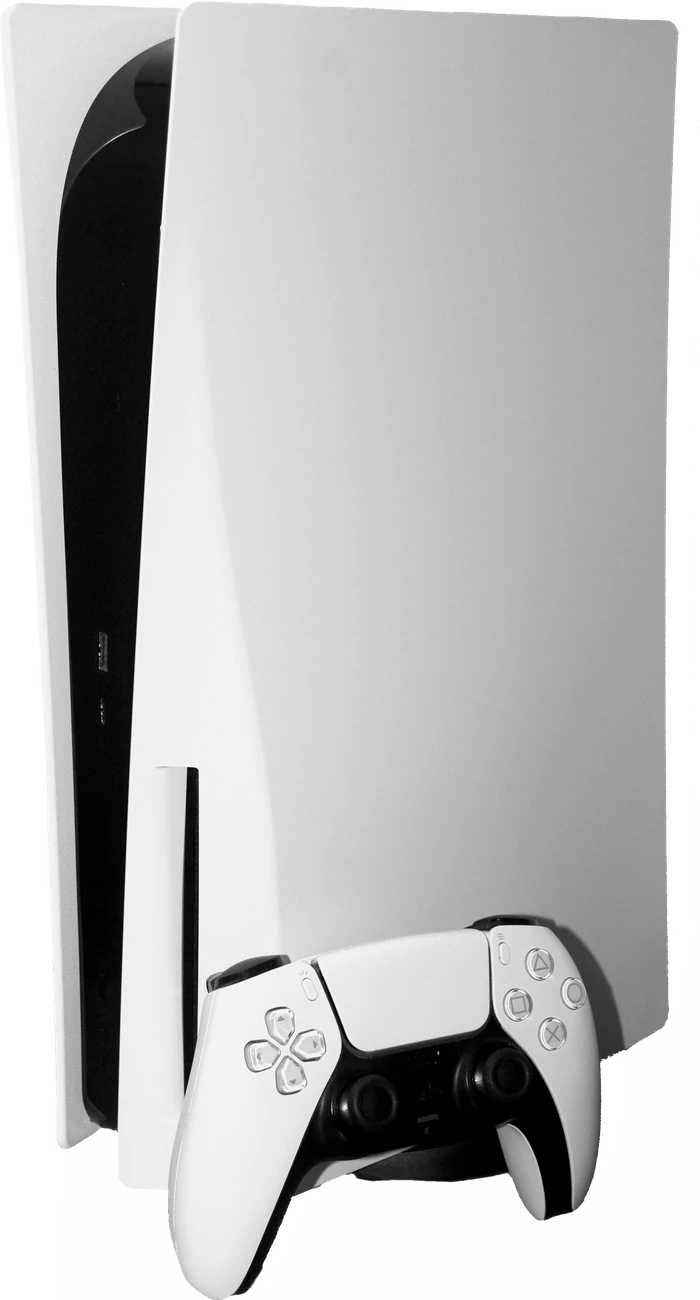
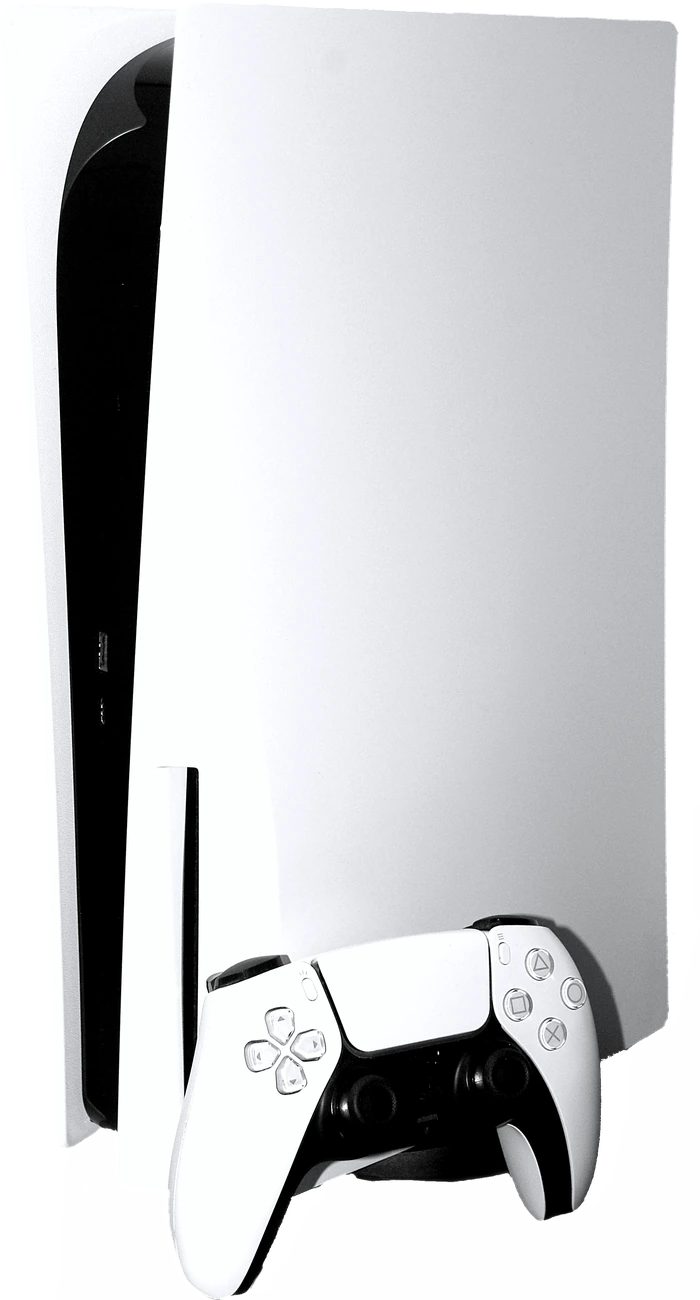
Give the third hero slide its own composition and lift the console photo
The bundle slide reused the console shot, so three arrows only produced two pictures. It now floats the included game card beside the hardware. The console photograph itself was a flat grey scan, so stretch its levels to bring the plastic back to near-white, deepen the gloss panel, sharpen the edges and cool the balance.

diff --git a/redesigns/playstation/index.html b/redesigns/playstation/index.html
@@ -23,7 +23,7 @@
   <link rel="preconnect" href="https://fonts.googleapis.com">
   <link rel="preconnect" href="https://fonts.gstatic.com" crossorigin>
   <link href="https://fonts.googleapis.com/css2?family=Poppins:wght@400;500;600;700&family=Inter:wght@400;500;600&display=swap" rel="stylesheet">
-  <link rel="stylesheet" href="styles.css?v=20260813-ps2">
+  <link rel="stylesheet" href="styles.css?v=20260813-ps3">
   <script type="application/ld+json">
     {
       "@context": "https://schema.org",
@@ -110,6 +110,10 @@
         <div class="hero-shadow" aria-hidden="true"></div>
         <img class="hero-group" id="heroGroup" src="assets/ps5-group.webp" width="700" height="1300" alt="PlayStation 5 console with a DualSense wireless controller." fetchpriority="high" decoding="async">
         <img class="hero-pad" id="heroPad" src="assets/dualsense.webp" width="760" height="627" alt="DualSense wireless controller." loading="lazy" decoding="async">
+        <figure class="hero-bundle" id="heroBundle" aria-hidden="true">
+          <img src="assets/tile-asterfall.webp" width="640" height="360" alt="" loading="lazy" decoding="async">
+          <figcaption><strong>Aster Fall</strong><span>Included</span></figcaption>
+        </figure>
         <div class="hero-arrows">
           <button class="round-btn" type="button" id="prevBtn" aria-label="Previous product">
             <svg viewBox="0 0 24 24" aria-hidden="true"><path d="M14 7l-5 5 5 5"/></svg>
@@ -357,6 +361,6 @@
     </div>
   </footer>
 
-  <script src="app.js?v=20260813-ps2"></script>
+  <script src="app.js?v=20260813-ps3"></script>
 </body>
 </html>

diff --git a/redesigns/playstation/styles.css b/redesigns/playstation/styles.css
@@ -429,6 +429,56 @@ a { color: inherit; text-decoration: none; }
 
 .hero-stage.is-solo .hero-pad { opacity: 1; }
 
+/* bundle slide: the console group plus the included game */
+.hero-bundle {
+  position: absolute;
+  z-index: 4;
+  left: clamp(0px, 2vw, 26px);
+  bottom: clamp(30px, 6vw, 80px);
+  width: clamp(132px, 15vw, 196px);
+  margin: 0;
+  padding: 0;
+  border-radius: 16px;
+  overflow: hidden;
+  background: #14171c;
+  box-shadow: 0 24px 44px rgba(28, 36, 48, 0.26);
+  opacity: 0;
+  pointer-events: none;
+  transform: rotate(-5deg);
+  transition: opacity 380ms var(--ease);
+}
+
+.hero-bundle img {
+  width: 100%;
+  height: auto;
+  aspect-ratio: 16 / 9;
+  object-fit: cover;
+}
+
+.hero-bundle figcaption {
+  padding: 9px 12px 11px;
+  display: flex;
+  flex-direction: column;
+  gap: 2px;
+  color: #fff;
+}
+
+.hero-bundle strong {
+  font-family: var(--font-d);
+  font-size: 12px;
+  font-weight: 600;
+  letter-spacing: -0.01em;
+}
+
+.hero-bundle span {
+  color: rgba(255, 255, 255, 0.6);
+  font-size: 10px;
+  letter-spacing: 0.06em;
+  text-transform: uppercase;
+}
+
+.hero-stage.is-bundle .hero-bundle { opacity: 1; }
+
 @keyframes float-console {
   0%, 100% { transform: translate3d(0, 0, 0); }
   50% { transform: translate3d(0, -12px, 0); }
@@ -1173,6 +1223,11 @@ a { color: inherit; text-decoration: none; }
   .hero-group { height: clamp(210px, 54vw, 260px); }
 
   .hero-pad { width: clamp(160px, 46vw, 210px); }
+
+  .hero-bundle {
+    width: clamp(104px, 30vw, 124px);
+    bottom: clamp(16px, 5vw, 30px);
+  }
 }
 
 @media (prefers-reduced-motion: reduce) {

diff --git a/redesigns/playstation/app.js b/redesigns/playstation/app.js
@@ -24,7 +24,7 @@
       sub: 'The PS5 console bundled with Aster Fall, a survey mission across a mapped red planet.',
       price: '559.99',
       cta: 'Buy bundle',
-      pad: true
+      pad: 'bundle'
     }
   ];
 
@@ -44,6 +44,7 @@
     heroPrice.textContent = p.price;
     buyLabel.textContent = p.cta;
     heroStage.classList.toggle('is-solo', p.pad === 'solo');
+    heroStage.classList.toggle('is-bundle', p.pad === 'bundle');
   }
 
   function step(delta) {
